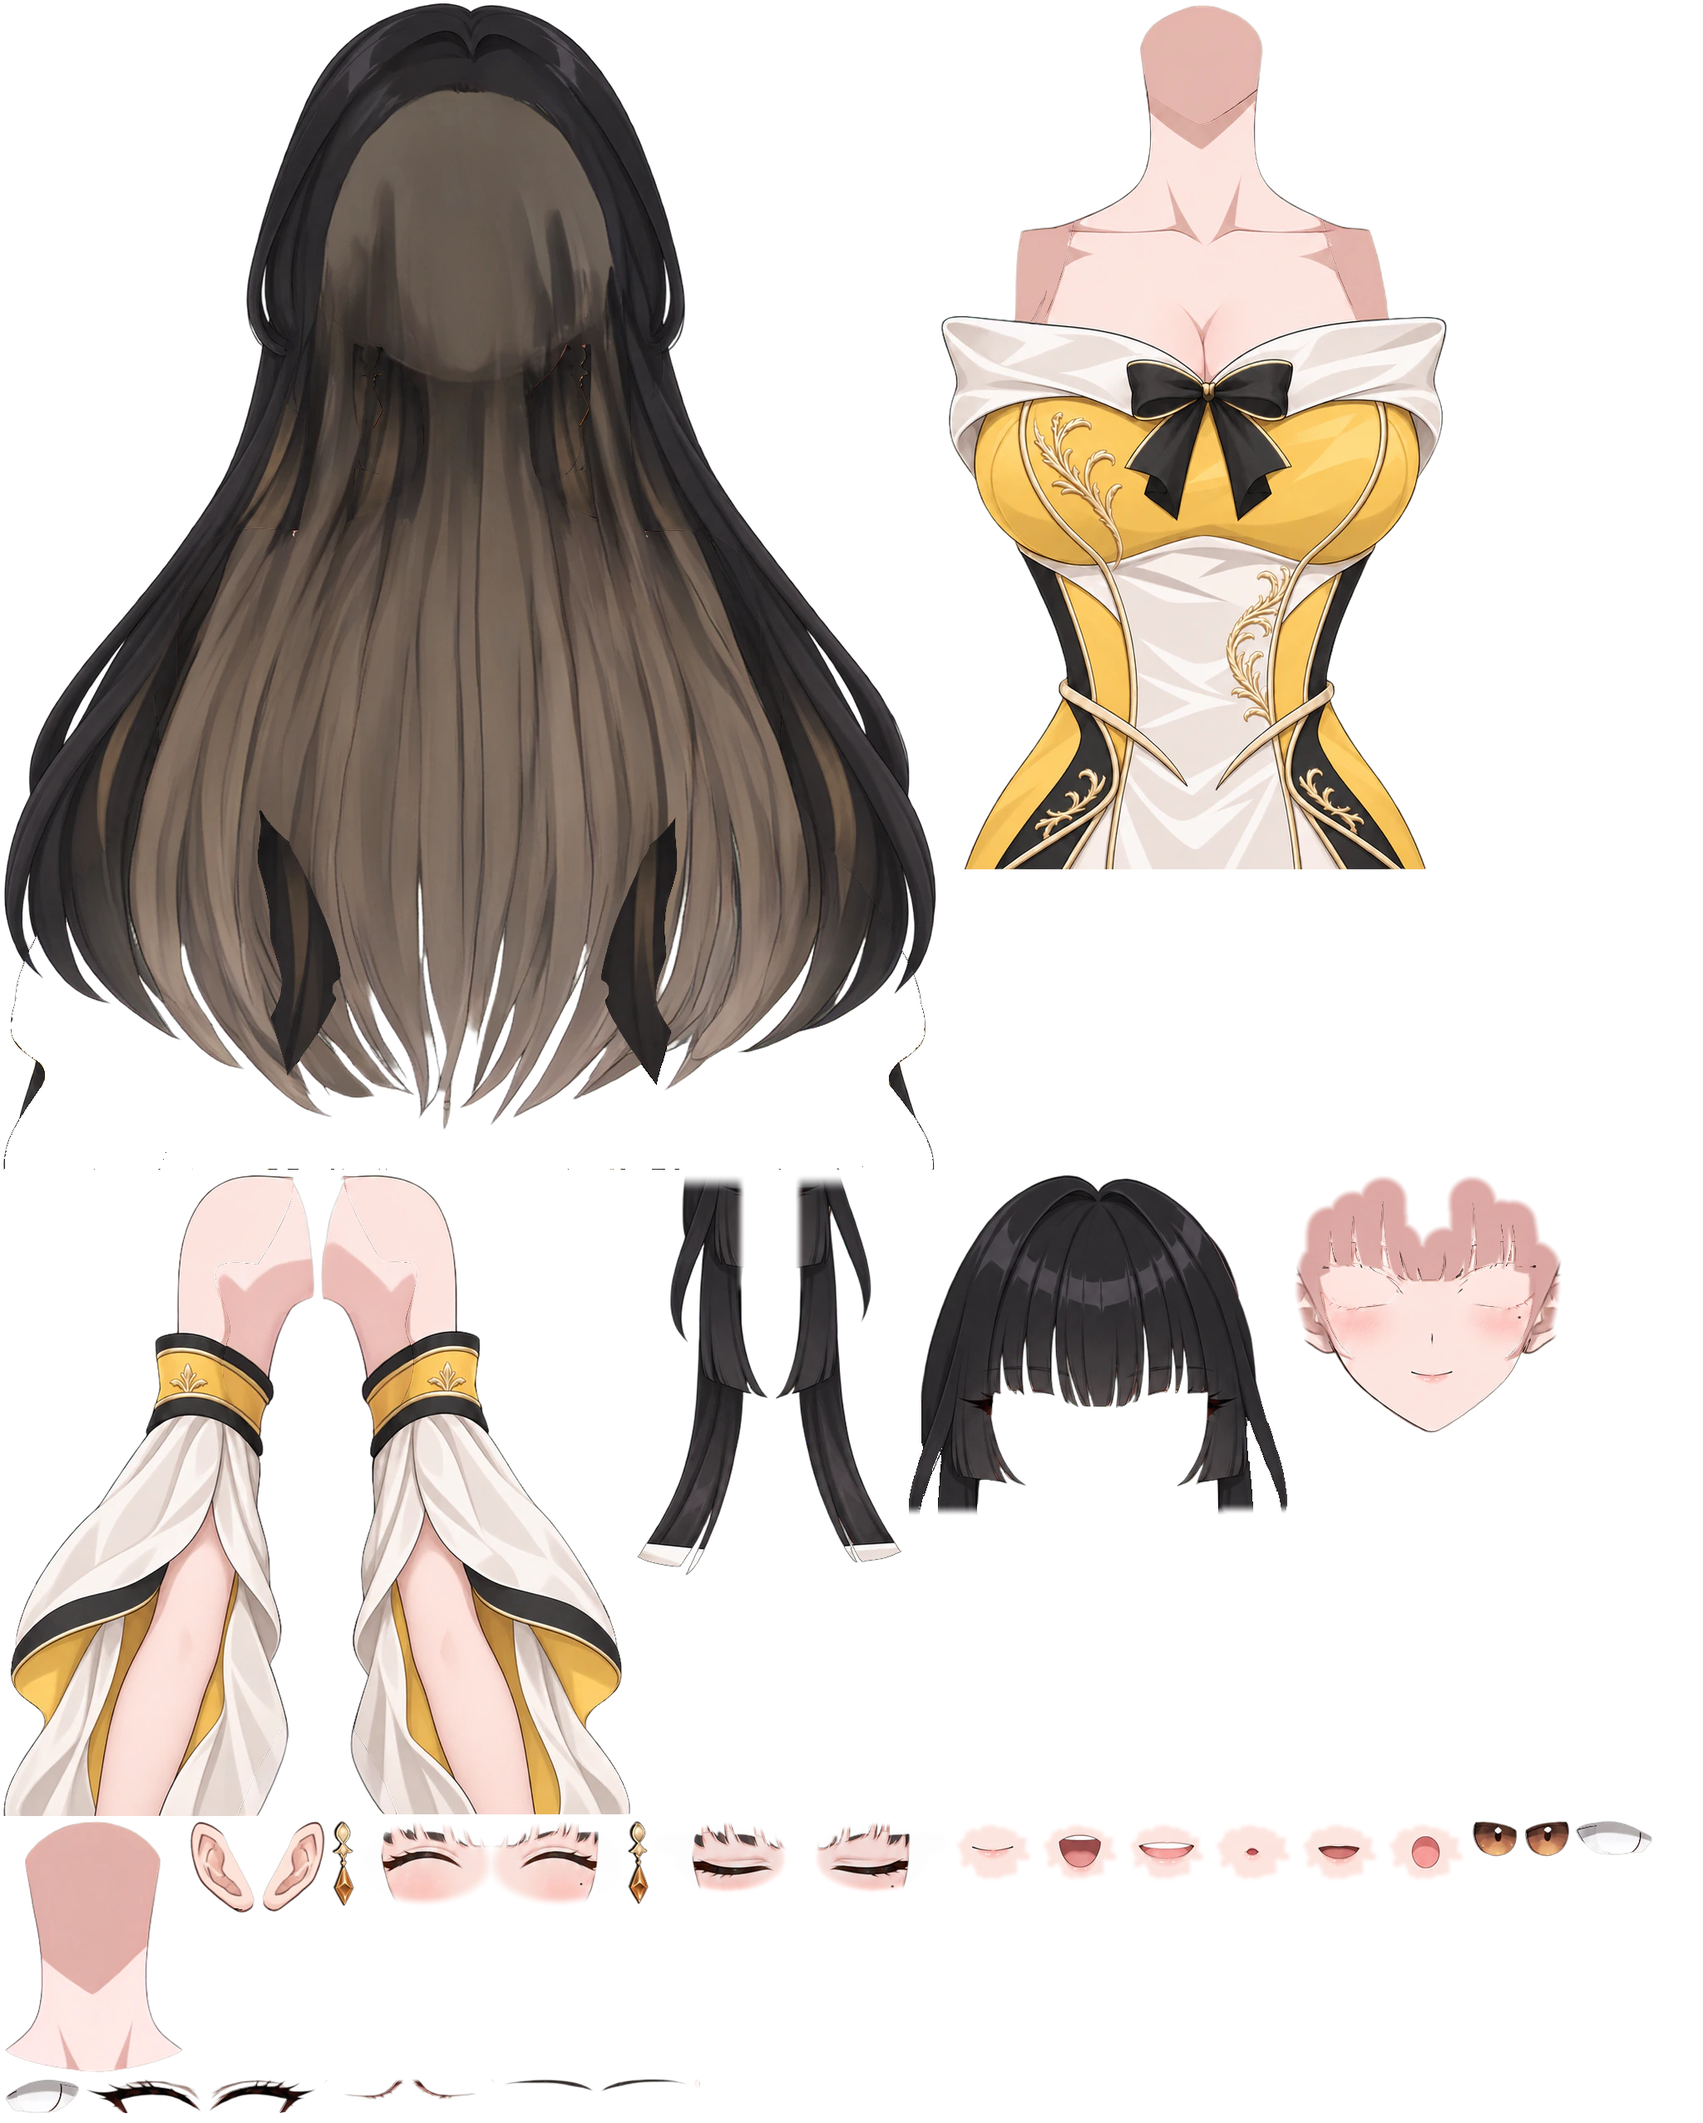
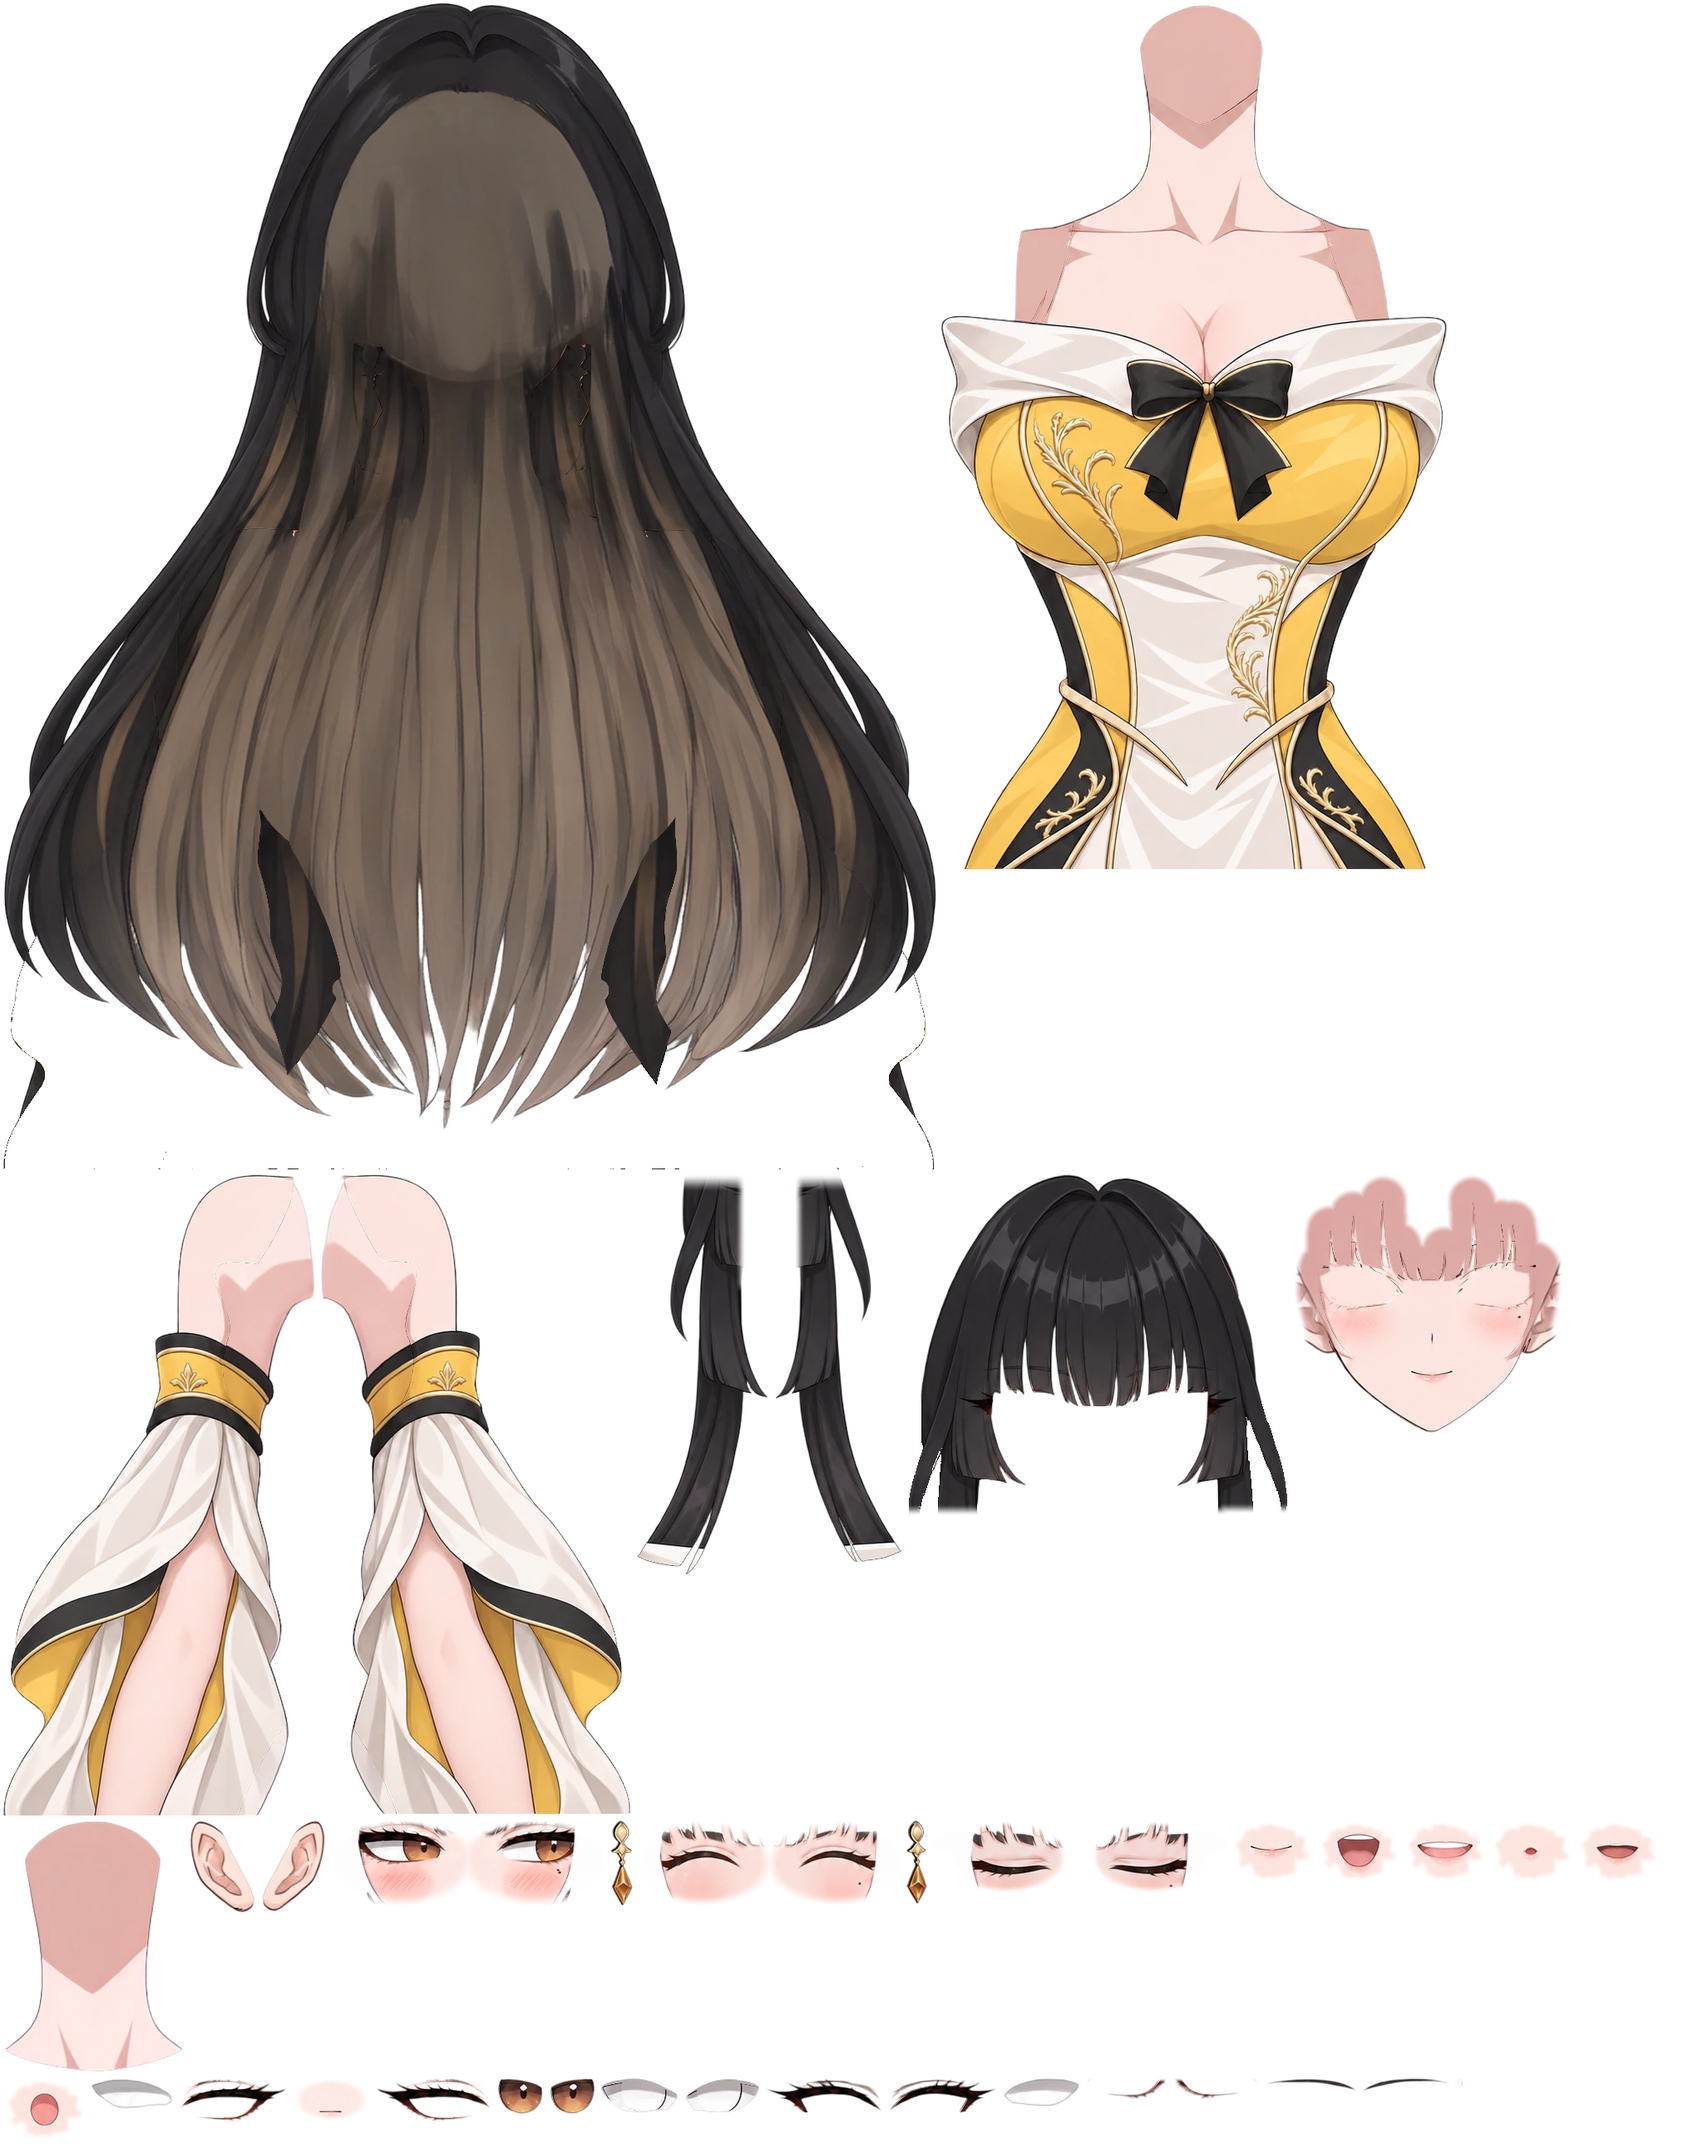
Give serve's phone character a shy glance
Now and then she blinks into the artist's shy drawing: eyes lowered and a little aside, a small closed mouth and blushing cheeks, her head tipped down and away, and blinks back out.

diff --git a/src/serve.html b/src/serve.html
@@ -47,7 +47,7 @@
 
   // The character: drawn layers cut from one picture, moved like a 2.5D puppet. Coordinates are
   // pixels of the original drawing; each layer names its place there and in /character.webp.
-  const RIG = {"size":[1122,1402],"atlas":[2048,2552],"layers":[["back hair",0,0,1122,1402,4,4],["handwear-l",745,631,376,771,384,1410],["handwear-r",0,629,376,773,4,1410],["neck",460,326,218,306,4,2187],["ears-l",669,302,80,113,313,2187],["ears-r",372,302,83,115,226,2187],["topwear",253,361,612,1041,1130,4],["face",402,193,327,316,1554,1410],["nose",561,382,11,17,833,2497],["earwear-r",427,406,31,107,397,2187],["earwear-l",677,406,29,105,753,2187],["mouth_closed",521,399,100,78,1145,2187],["mouth_a",521,399,100,78,1249,2187],["mouth_i",521,399,100,78,1353,2187],["mouth_u",521,399,100,78,1457,2187],["mouth_e",521,399,100,78,1561,2187],["mouth_o",521,399,100,78,1665,2187],["eyebrow-r",420,269,115,19,601,2497],["eyewhite-r",434,310,97,45,1893,2187],["eyewhite-l",603,309,93,45,4,2497],["irides-r",458,309,58,47,1769,2187],["eyebrow-l",594,269,109,19,720,2497],["irides-l",616,309,58,47,1831,2187],["eyelash-r",392,295,144,45,101,2497],["lid-r",431,331,105,29,492,2497],["eyelash-l",598,295,134,45,249,2497],["lid-l",597,330,101,30,387,2497],["blink",388,286,355,92,786,2187],["laugh",408,289,317,107,432,2187],["front hair",334,40,459,414,1091,1410],["lock-r",292,295,162,486,764,1410],["lock-l",675,295,157,471,930,1410]],"neck":[568,585],"neckSpan":[329,630],"face":[565,272],"eyes":{"r":[486,331],"l":[646,331],"close":345},"mouth":[570,418,433],"earrings":{"earwear-r":[442,409],"earwear-l":[691,409]},"strands":{"front hair":[[447,79,564],[557,54,320],[616,50,300],[676,89,409]],"back hair":[[33,905,1160],[195,674,1239],[374,97,1333],[607,4,1324],[816,334,1294],[1088,912,1174]]},"locks":{"lock-r":[383,308,776],"lock-l":[734,308,761]},"lids":{"r":335,"l":334},"bangs":[418,706]};
+  const RIG = {"size":[1122,1402],"atlas":[2048,2584],"layers":[["back hair",0,0,1122,1402,4,4],["handwear-l",745,631,376,771,384,1410],["handwear-r",0,629,376,773,4,1410],["neck",460,326,218,306,4,2187],["ears-l",669,302,80,113,313,2187],["ears-r",372,302,83,115,226,2187],["topwear",253,361,612,1041,1130,4],["face",402,193,327,316,1554,1410],["nose",561,382,11,17,1750,2497],["earwear-r",427,406,31,107,732,2187],["earwear-l",677,406,29,105,1088,2187],["mouth_closed",521,399,100,78,1480,2187],["shymouth",523,398,95,56,351,2497],["mouth_a",521,399,100,78,1584,2187],["mouth_i",521,399,100,78,1688,2187],["mouth_u",521,399,100,78,1792,2187],["mouth_e",521,399,100,78,1896,2187],["mouth_o",521,399,100,78,4,2497],["eyebrow-r",420,269,115,19,1518,2497],["eyewhite-r",434,310,97,45,721,2497],["eyewhite-l",603,309,93,45,822,2497],["irides-r",458,309,58,47,597,2497],["eyebrow-l",594,269,109,19,1637,2497],["irides-l",616,309,58,47,659,2497],["eyelash-r",392,295,144,45,919,2497],["lid-r",431,331,105,29,1409,2497],["eyelash-l",598,295,134,45,1067,2497],["lid-l",597,330,101,30,1304,2497],["blink",388,286,355,92,1121,2187],["laugh",408,289,317,107,767,2187],["shy",401,305,331,109,397,2187],["shywhite-r",436,319,101,63,108,2497],["shywhite-l",603,321,95,39,1205,2497],["shyiris-r",458,309,58,47,597,2497],["shyiris-l",616,309,58,47,659,2497],["shylash-r",400,306,143,56,450,2497],["shylash-l",598,306,134,57,213,2497],["front hair",334,40,459,414,1091,1410],["lock-r",292,295,162,486,764,1410],["lock-l",675,295,157,471,930,1410]],"neck":[568,585],"neckSpan":[329,630],"face":[565,272],"eyes":{"r":[486,331],"l":[646,331],"close":345},"mouth":[570,418,433],"earrings":{"earwear-r":[442,409],"earwear-l":[691,409]},"strands":{"front hair":[[447,79,564],[557,54,320],[616,50,300],[676,89,409]],"back hair":[[33,905,1160],[195,674,1239],[374,97,1333],[607,4,1324],[816,334,1294],[1088,912,1174]]},"locks":{"lock-r":[383,308,776],"lock-l":[734,308,761]},"lids":{"r":335,"l":334},"bangs":[418,706]};
 
   const character = (() => {
     const canvas = document.querySelector('canvas');
@@ -57,7 +57,7 @@
     const VOWELS = ['a', 'i', 'u', 'e', 'o'];
     const DEPTH = {
       'back hair': .55, ears: .85, earwear: .95, nose: 1.12, mouth: 1.06, eyebrow: 1.05,
-      eyewhite: 1.04, irides: 1.04, eyelash: 1.04, lid: 1.04, blink: 1.04, laugh: 1.04, 'front hair': 1.25, lock: 1.25,
+      eyewhite: 1.04, irides: 1.04, eyelash: 1.04, lid: 1.04, blink: 1.04, laugh: 1.04, shy: 1.04, shymouth: 1.06, shywhite: 1.04, shyiris: 1.04, shylash: 1.04, 'front hair': 1.25, lock: 1.25,
       topwear: .9, neck: .95,
     };
     const LIDS = ['eyewhite', 'eyelash', 'lid'], LEAN = .045;
@@ -137,6 +137,9 @@
     // A phrase ends where the voice rests after talking a while; she smiles and tilts her head there.
     // About half of those smiles are laughs, with the drawn laughing eyes.
     let talked = 0, quiet = 0, beamAt = -9, beamSide = 1, nextBeam = 6, laugh = false;
+    // Now and then a shy glance: she blinks, looks away with her head turned and her cheeks red,
+    // and blinks back. The drawn shy eyes swap in while her eyes are shut.
+    let shyWant = false, shyOn = false, shySide = 1, shyUntil = 0, nextShy = 9;
 
     function spring(s, target, k, damping, dt) {
       const steps = Math.ceil(dt * 120), h = dt / steps;
@@ -162,6 +165,22 @@
         goal.ey = back ? 0 : random() * (talking ? .45 : mood ? .15 : .35);
         if (Math.random() < .3 && blinkAt < 0) nextBlink = t;
       }
+      if (!shyWant && t > nextShy && t > beamAt + 2 && !calm.matches) {
+        shyWant = true;
+        shySide = Math.random() < .5 ? -1 : 1;
+        shyUntil = t + 2.2 + Math.random() * 1.3;
+        blinkAt = t;
+      } else if (shyWant && t > shyUntil) {
+        shyWant = false;
+        nextShy = t + (mood ? 7 : 12) + Math.random() * 9;
+        nextLook = t + .3;
+        blinkAt = t;
+      }
+      if (shyWant) {
+        // Head a little down and aside, eyes looking away and slightly down.
+        Object.assign(goal, { ax: shySide * .35, ay: .45, az: shySide * .25, ex: shySide, ey: .3 });
+        nextLook = Math.max(nextLook, t + .3);
+      }
       const voice = speech(), level = voice ? voice.level : 0;
       mouth.loud += (level - mouth.loud) * (1 - Math.exp(-dt * 18));
       mouth.slow += (level - mouth.slow) * (1 - Math.exp(-dt * 2.5));
@@ -169,7 +188,7 @@
       heard *= Math.exp(-dt * 3);
 
       if (level > .12) talked += dt, quiet = 0;
-      else if ((quiet += dt) > .2 && talked > .7) talked = 0, beamAt = t, beamSide = -beamSide, laugh = Math.random() < .55;
+      else if ((quiet += dt) > .2 && talked > .7) talked = 0, beamAt = t, beamSide = -beamSide, laugh = !shyWant && Math.random() < .55;
       if (quiet > 2) talked = 0;
       // Now and then a smile of her own, more often while someone is there.
       if (t > nextBeam) {
@@ -204,10 +223,11 @@
       cur.near += ((mood === 'you' ? .8 + heard * .6 : mood === 'boubou' ? .35 : 0) * still - cur.near) * (1 - Math.exp(-dt * 2));
 
       let open = 1;
-      if (blinkAt < 0 && t > nextBlink) blinkAt = t;
+      if (blinkAt < 0 && t > nextBlink && !shyOn) blinkAt = t;
       if (blinkAt >= 0) {
         const d = t - blinkAt;
         open = d < .07 ? 1 - d / .07 : d < .12 ? 0 : smooth((d - .12) / .16);
+        if (open < .3) shyOn = shyWant;
         if (d >= .28) {
           blinkAt = -1;
           nextBlink = t + (Math.random() < .15 ? .1 : 1.6 + Math.random() * 3.8);
@@ -242,7 +262,7 @@
       return {
         // A laugh shuts the eyes like a blink, then the drawn laughing eyes take over.
         ...cur, ay: cur.ay - cur.nod * .5, open: Math.min(open, 1 - cur.happy * 1.15), lean,
-        happy: smooth((cur.happy - .7) / .25), smile: cur.smile * (calm.matches ? .5 : 1),
+        happy: smooth((cur.happy - .7) / .25), smile: cur.smile * (calm.matches ? .5 : 1), shy: +shyOn,
         breath: .5 + .5 * Math.sin(t * 2 * Math.PI / 3.4),
         lag: .5 + .5 * Math.sin(t * 2 * Math.PI / 3.4 - .6),
       };
@@ -250,9 +270,11 @@
 
     function alpha(layer, p) {
       const eyes = smooth((p.open - .235) / .15);
-      if (LIDS.includes(layer.kind) || layer.kind === 'irides') return eyes;
+      // The shy eyes replace the usual ones outright, so nothing of them shows between the bangs.
+      if (LIDS.includes(layer.kind) || layer.kind === 'irides') return eyes * (1 - p.shy);
       if (layer.kind === 'blink') return (1 - eyes) * (1 - p.happy);
       if (layer.kind === 'laugh') return p.happy;
+      if (layer.kind.startsWith('shy')) return p.shy;
       if (layer.kind === 'mouth' && layer.name !== 'mouth_closed') {
         return mouth.weights[VOWELS.indexOf(layer.name.slice(6))];
       }
@@ -274,6 +296,10 @@
           else if (k === 'eyewhite') y -= arch * 10 * smooth((y - mid + 4) / 18);
           else y += arch * 2.5 * smooth((mid - y) / 30);
           y = CLOSE + (y - CLOSE) * (1 - .85 * (1 - p.open));
+        } else if (k === 'shyiris') {
+          // A small look aside and down; the drawing's 21 px reads as a glare.
+          x += p.ex * 9;
+          y += 3 + p.ey * 2;
         } else if (k === 'irides') {
           x += p.ex * 7;
           y += p.ey * 4;
@@ -515,7 +541,7 @@
       const dt = Math.min(.05, (now - last) / 1000);
       last = now;
       if (!program || gl.isContextLost()) return;
-      const p = pose(now / 1000, dt), { cw, ch, view: v } = view();
+      const p = pose(now / 1000, dt), { cw, ch, view: v } = view(), whites = p.shy ? 'shywhite' : 'eyewhite';
       if (!cw || !ch) return;
       gl.useProgram(program);
       gl.uniform4fv(at.uView, v);
@@ -524,7 +550,7 @@
       gl.bindTexture(gl.TEXTURE_2D, texture);
       for (const layer of layers) {
         layer.alpha = alpha(layer, p);
-        if (layer.alpha > .003 || layer.kind === 'eyewhite') deform(layer, p);
+        if (layer.alpha > .003 || layer.kind === whites) deform(layer, p);
       }
       // The eye whites, drawn into a mask first, clip the irises as they look around.
       if (maskSize !== `${cw}x${ch}`) {
@@ -544,7 +570,7 @@
       gl.clearColor(0, 0, 0, 0);
       gl.clear(gl.COLOR_BUFFER_BIT);
       for (const layer of layers) {
-        if (layer.kind !== 'eyewhite') continue;
+        if (layer.kind !== whites) continue;
         gl.colorMask(layer.side === 'r', layer.side === 'l', false, false);
         draw(layer, 1, [0, 0, 2]);
       }
@@ -556,7 +582,7 @@
       gl.activeTexture(gl.TEXTURE0);
       for (const layer of layers) {
         if (layer.alpha <= .003) continue;
-        draw(layer, layer.alpha, layer.kind === 'irides' ? [+(layer.side === 'r'), +(layer.side === 'l'), 1] : [0, 0, 0]);
+        draw(layer, layer.alpha, layer.kind === 'irides' || layer.kind === 'shyiris' ? [+(layer.side === 'r'), +(layer.side === 'l'), 1] : [0, 0, 0]);
       }
     }
 
